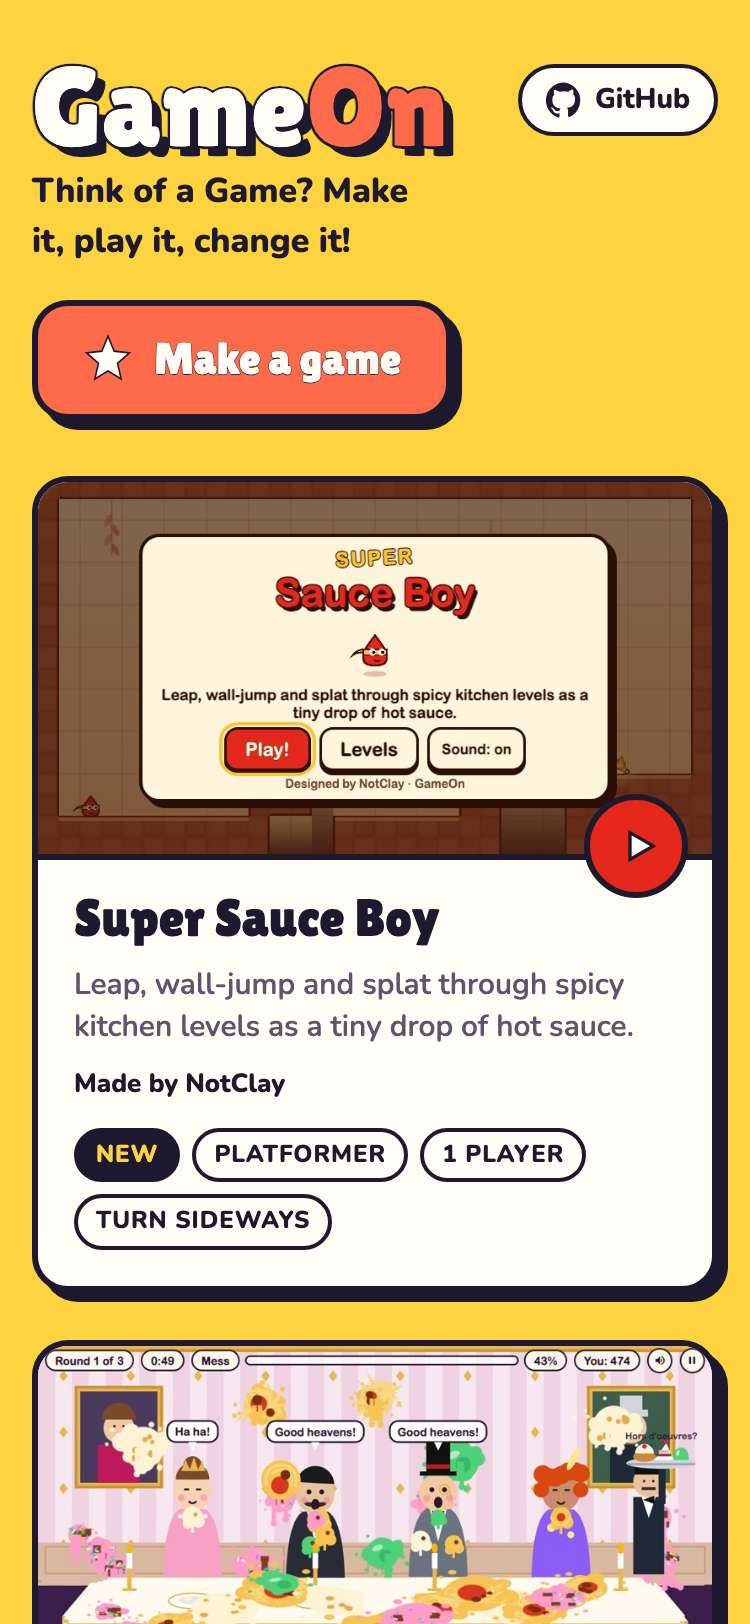
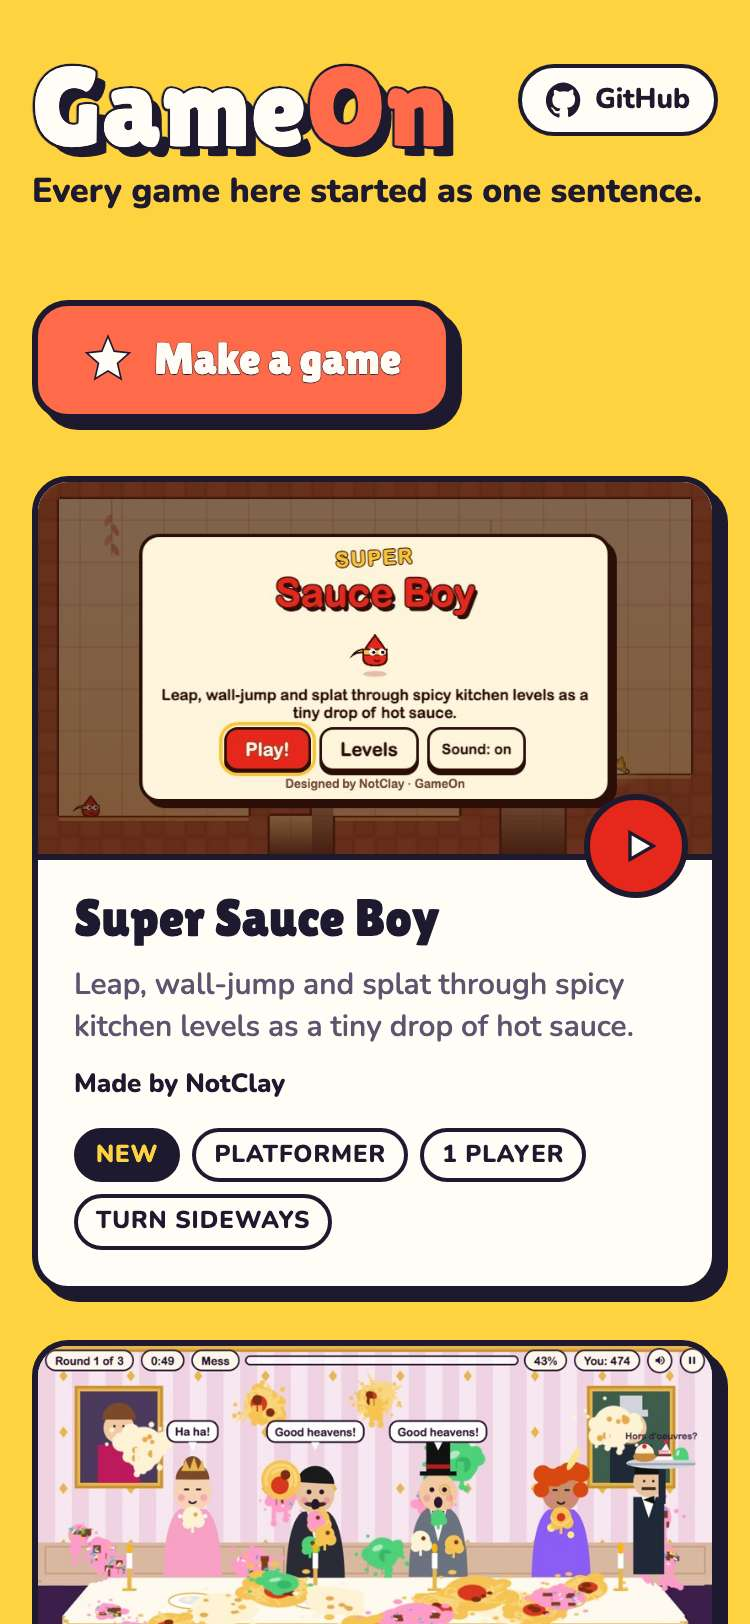
Rotate the arcade tagline through Jeremy's lines and 50 more

Changed region(s): [[0.0307, 0.0924, 0.92, 0.1847]]

diff --git a/index.html b/index.html
@@ -61,7 +61,9 @@ a { color: inherit; }
   text-shadow: 5px 5px 0 var(--ink);
 }
 .wordmark span { color: var(--pop); }
-.lede { margin: 0; font-size: clamp(17px, 2.4vw, 21px); font-weight: 800; max-width: 34ch; text-wrap: balance; }
+.lede { margin: 0; font-size: clamp(17px, 2.4vw, 21px); font-weight: 800; max-width: 34ch; text-wrap: balance; min-height: 2.9em; transition: opacity 350ms ease; }
+.lede.fading { opacity: 0; }
+@media (prefers-reduced-motion: reduce) { .lede { transition: none; } }
 
 .shelf {
   list-style: none;
@@ -278,7 +280,7 @@ a { color: inherit; }
   <header class="masthead">
     <h1 class="wordmark">Game<span>On</span></h1>
     <a class="gh-home" id="gh-home" href="https://github.com/jwildfire/gameon" target="_blank" rel="noopener"><svg class="gh" viewBox="0 0 24 24" aria-hidden="true"><path d="M12 .3a12 12 0 0 0-3.8 23.4c.6.1.8-.3.8-.6v-2.2c-3.3.7-4-1.4-4-1.4-.6-1.4-1.4-1.8-1.4-1.8-1-.7.1-.7.1-.7 1.2.1 1.8 1.2 1.8 1.2 1 1.8 2.8 1.3 3.5 1 0-.8.4-1.3.7-1.6-2.7-.3-5.5-1.3-5.5-6 0-1.2.5-2.3 1.3-3.1-.2-.4-.6-1.6 0-3.2 0 0 1-.3 3.4 1.2a11.5 11.5 0 0 1 6 0C17 4.6 18 5 18 5c.6 1.6.2 2.8.1 3.2.8.8 1.3 1.9 1.3 3.1 0 4.6-2.8 5.6-5.5 5.9.4.4.8 1.1.8 2.2v3.3c0 .3.2.7.8.6A12 12 0 0 0 12 .3"/></svg>GitHub</a>
-    <p class="lede">Think of a Game? Make it, play it, change it!</p>
+    <p class="lede" id="tagline">Think of a Game? Make it, play it, change it!</p>
     <a class="make" id="make-btn" href="new/"><svg viewBox="0 0 24 24" aria-hidden="true"><path d="M12 2l2.6 6.3L21 9l-5 4.4L17.5 20 12 16.6 6.5 20 8 13.4 3 9l6.4-.7z"/></svg>Make a game</a>
   </header>
   <ul class="shelf" id="shelf" aria-label="Games"></ul>
@@ -327,6 +329,26 @@ a { color: inherit; }
   </div>
 </div>
 
+<script>
+// Taglines: Jeremy's two lines and the Game Night line, then fifty more in the same voice.
+// One shows at a time, starting at random and changing every few seconds. With reduced
+// motion it's one line per visit.
+(function () {
+  var LINES = ["Think of a Game? Make it, play it, change it!", "Think of a Game? Make it. Then make it better.", "Dream up a game. Play it with your friends tonight.", "Say it out loud. Play it by dinner.", "Your idea. Our robots. Everyone's controller.", "Describe it. Build it. Beat your friends at it.", "Grab a controller. Grab a friend. Grab a weird idea.", "Every game here started as one sentence.", "One idea in. One game out.", "If you can say it, you can play it.", "Thought up by people. Built by robots. Played by everyone.", "Pitch a game. Hit Send. Press Start.", "Make the game you wish existed.", "Couch, snacks, friends, and a game nobody's played yet.", "Today's weird idea is tonight's game night.", "Nachos, jelly, lava, robots. Anything goes.", "Your game, your rules, your high score.", "Change the rules. Then change them again.", "Don't like the ending? Make your own version.", "Built in an hour. Played for weeks.", "Insert idea. Get game.", "Player 1, pitch your game.", "The arcade where the games take requests.", "Some people play games. You make them.", "Two controllers, one couch, endless nonsense.", "What if the floor was lava? Go find out.", "Bring an idea. Leave with a game.", "No coding. Just ideas and a big Send button.", "Remix any game. Make it yours.", "Game night, freshly baked.", "Every version stays. Every idea counts.", "From “what if” to “one more round.”", "Think it. Say it. Splat it.", "It's not cheating if you made the game.", "The best games start with “what if…”", "You bring the chaos. We'll bring the code.", "Make a game in the time it takes to get a pizza.", "Too easy? Make it harder.", "Too hard? Make it easier. It's your game.", "Every game here has a story. Add yours.", "Sauce, shapes, pies and trampolines. So far.", "Fork a game. Put your name on it.", "Imagine it on the couch. Play it on the couch.", "One more game. Then one more after that.", "Make it silly. Make it spicy. Make it yours.", "The arcade is open. The cabinets are yours.", "Ideas welcome. Controllers recommended.", "Someone's idea is about to be your favourite game.", "Got a game stuck in your head? Let it out.", "Make a game with your friends. Then beat them at it.", "Send it to the Matrix. Grab the snacks.", "Weird ideas make the best games.", "Change one rule. See what happens."];
+  var el = document.getElementById("tagline");
+  var i = Math.floor(Math.random() * LINES.length);
+  function show(n) { i = (n + LINES.length) % LINES.length; el.textContent = LINES[i]; }
+  function next() {
+    el.classList.add("fading");
+    setTimeout(function () { show(i + 1); el.classList.remove("fading"); }, 360);
+  }
+  show(i);
+  window.gameonTaglines = LINES.slice();
+  window.gameonNextTagline = function () { show(i + 1); return LINES[i]; };
+  if (window.matchMedia && window.matchMedia("(prefers-reduced-motion: reduce)").matches) return;
+  setInterval(function () { if (!document.hidden) next(); }, 6500);
+})();
+</script>
 <script>
 (function () {
   var games = [];

diff --git a/evidence/135-header-row/index.html b/evidence/135-header-row/index.html
@@ -14,9 +14,10 @@ h1 { font-size: 24px; margin: 0 0 4px; } h2 { font-size: 19px; margin: 28px 0 6p
 .pair img.desktop { width: 640px; } .pair img.phone { width: 220px; }
 </style></head><body>
 <h1>Evidence: 135-header-row</h1>
-<p class="head">PASS: 3 of 3 checks pass at desktop and phone widths.</p>
-<p class="meta">Against the local server (python3 -m http.server) on this branch, from commit edd9060, 2026-10-24 04:39 UTC. Spec: tests/evidence/135-header-row.spec.mjs.</p>
+<p class="head">PASS: 4 of 4 checks pass at desktop and phone widths.</p>
+<p class="meta">Against the local server (python3 -m http.server) on this branch, from commit b8f5cbe, 2026-10-24 04:43 UTC. Spec: tests/evidence/135-header-row.spec.mjs.</p>
 <section><h2>1. at 1600 wide the header is one row with GitHub at the right</h2><p><span class="s ok">Desktop 1280: pass</span> <span class="s ">Phone 375: skipped</span></p><ul><li>desktop: 1600px: header 76px tall, one row</li></ul><div class="pair"><a href="wide-1600-desktop.jpg"><img class="desktop" src="wide-1600-desktop.jpg" alt="at 1600 wide the header is one row with GitHub at the right: wide-1600-desktop.jpg" loading="lazy"></a></div></section>
 <section><h2>2. at 1280 wide the header is one row with GitHub at the right</h2><p><span class="s ok">Desktop 1280: pass</span> <span class="s ">Phone 375: skipped</span></p><ul><li>desktop: 1280px: header 75px tall, one row</li></ul><div class="pair"><a href="wide-1280-desktop.jpg"><img class="desktop" src="wide-1280-desktop.jpg" alt="at 1280 wide the header is one row with GitHub at the right: wide-1280-desktop.jpg" loading="lazy"></a></div></section>
 <section><h2>3. on a phone the header stacks and nothing overflows</h2><p><span class="s ">Desktop 1280: skipped</span> <span class="s ok">Phone 375: pass</span></p><ul><li>phone: 375px: stacked, header 182px tall</li></ul><div class="pair"><a href="phone-phone.jpg"><img class="phone" src="phone-phone.jpg" alt="on a phone the header stacks and nothing overflows: phone-phone.jpg" loading="lazy"></a></div></section>
+<section><h2>4. the tagline rotates through Jeremy's lines and 50 more, and holds still for reduced motion</h2><p><span class="s ok">Desktop 1280: pass</span> <span class="s ok">Phone 375: pass</span></p><ul><li>desktop: 53 taglines; the line changes on its own, the header height stays put for every line, and reduced motion holds one line</li><li>phone: 53 taglines; the line changes on its own, the header height stays put for every line, and reduced motion holds one line</li></ul></section>
 </body></html>

diff --git a/evidence/135-header-row/README.md b/evidence/135-header-row/README.md
@@ -1,14 +1,15 @@
 # Evidence: 135-header-row
 
-**PASS: 3 of 3 checks pass at desktop and phone widths.**
+**PASS: 4 of 4 checks pass at desktop and phone widths.**
 
-Generated by `npm run evidence -- 135-header-row` from [`tests/evidence/135-header-row.spec.mjs`](../../tests/evidence/135-header-row.spec.mjs) against the local server (python3 -m http.server) on this branch, starting from commit edd9060, 2026-10-24 04:39 UTC. Rules: [docs/evidence.md](../../docs/evidence.md).
+Generated by `npm run evidence -- 135-header-row` from [`tests/evidence/135-header-row.spec.mjs`](../../tests/evidence/135-header-row.spec.mjs) against the local server (python3 -m http.server) on this branch, starting from commit b8f5cbe, 2026-10-24 04:43 UTC. Rules: [docs/evidence.md](../../docs/evidence.md).
 
 | Check | Desktop 1280 | Phone 375 |
 |---|---|---|
 | at 1600 wide the header is one row with GitHub at the right | pass | skipped |
 | at 1280 wide the header is one row with GitHub at the right | pass | skipped |
 | on a phone the header stacks and nothing overflows | skipped | pass |
+| the tagline rotates through Jeremy's lines and 50 more, and holds still for reduced motion | pass | pass |
 
 ## 1. at 1600 wide the header is one row with GitHub at the right
 
@@ -27,3 +28,8 @@ Generated by `npm run evidence -- 135-header-row` from [`tests/evidence/135-head
 - phone: 375px: stacked, header 182px tall
 
 <img src="phone-phone.jpg" alt="on a phone the header stacks and nothing overflows: phone-phone.jpg" width="240">
+
+## 4. the tagline rotates through Jeremy's lines and 50 more, and holds still for reduced motion
+
+- desktop: 53 taglines; the line changes on its own, the header height stays put for every line, and reduced motion holds one line
+- phone: 53 taglines; the line changes on its own, the header height stays put for every line, and reduced motion holds one line
